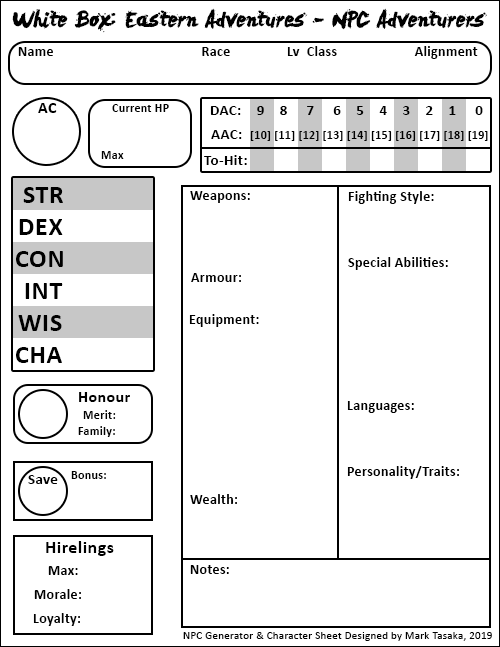
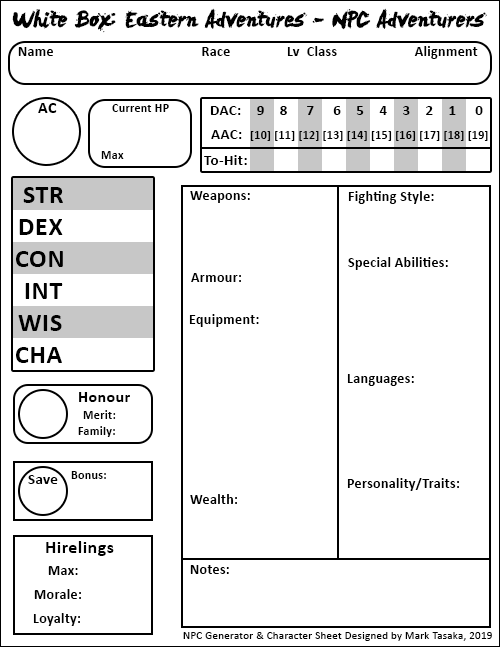
update 1.01

Changed region(s): [[0.69, 0.711, 0.93, 0.7728], [0.69, 0.5564, 0.84, 0.6491]]

diff --git a/npc/css/npc.css b/npc/css/npc.css
@@ -170,9 +170,9 @@ body{
 
 #personality0, #personality1, #personality2, #personality3{
     position: absolute;
-    top: 483px;
+    top: 495px;
     left: 348px;
-    font-size: 0.8em;;
+    font-size: 0.75em;;
     width: 135px;
 }
 
@@ -218,7 +218,7 @@ body{
     top: 273px;
     left: 348px;
     width: 135px;
-    font-size: 0.8em;
+    font-size: 0.75em;
 }
 
 
@@ -309,10 +309,9 @@ body{
 
 
 
-#demo{
+#language0, #language1, #language2, #language3{
     position: absolute;
-    top: 330px;
-    left: 210px;
-    font-size: 0.75em;
-    width: 110px;
+    top: 373px;
+    left: 348px;
+    font-size:0.75em;
 }

diff --git a/npc/php/languages.php b/npc/php/languages.php
@@ -1,16 +1,5 @@
 <?php
 
-$languagesHuman = array("Bakemono", "Celestial Dialect", "Dark Speech", "Draconic",
-"Kappa", "Feline", "Forest Dialect", "Koropokuru", "Nezumi", "Oceanic",
-"The Old Tongue", "Ogre", "Oni", "Sea Dialect", "Tengu", "The Undying Tongue");
-
-$languagesKoropokuru = array("Bakemono", "Celestial Dialect", "Dark Speech", "Draconic",
-"Kappa", "Feline", "Forest Dialect", "Nezumi", "Oceanic",
-"The Old Tongue", "Ogre", "Oni", "Sea Dialect", "Tengu", "The Undying Tongue");
-
-$languagesTengu = array("Bakemono", "Celestial Dialect", "Dark Speech", "Draconic",
-"Kappa", "Feline", "Forest Dialect", "Koropokuru", "Nezumi", "Oceanic",
-"The Old Tongue", "Ogre", "Oni", "Sea Dialect", "The Undying Tongue");
 
 function bonusLanguages ($intelligence)
 {
@@ -45,6 +34,7 @@ function bonusLanguages ($intelligence)
 
 }
 
+//Languages for Human NPCs
 function BonusLanguagesHuman ($bonus)
 {
     
@@ -70,17 +60,120 @@ function BonusLanguagesHuman ($bonus)
     
     return $languages;
 
-    //return $languagesHuman;
+}
+
+//Languages for Koropokuru NPCs
+function BonusLanguagesKoropokuru ($bonus)
+{
+    
+    $languagesKoropokuru = array("Bakemono", "Celestial Dialect", "Dark Speech", "Draconic",
+    "Kappa", "Feline", "Forest Dialect", "Nezumi", "Oceanic",
+    "The Old Tongue", "Ogre", "Oni", "Sea Dialect", "Tengu", "The Undying Tongue");
+    
+    shuffle($languagesKoropokuru);
+    
+    $languages = array();
+
+    array_push($languages, 'Common');
+    array_push($languages, 'Koropokuru');
+
+
+    if($bonus > 0)
+    {
+        for($count = 0; $count < $bonus; ++$count)
+        {
+            array_push($languages, $languagesKoropokuru[$count]);
+        }
+    }
+    
+    return $languages;
 
 }
 
 
-function getLanguages ($bonus)
+//Languages for Kitsune NPCs
+function BonusLanguagesKitsune ($bonus)
+{
+    
+    $languagesHuman = array("Bakemono", "Celestial Dialect", "Dark Speech", "Draconic",
+    "Kappa", "Feline", "Forest Dialect", "Koropokuru", "Nezumi", "Oceanic",
+    "The Old Tongue", "Ogre", "Oni", "Sea Dialect", "Tengu", "The Undying Tongue");
+    
+    shuffle($languagesHuman);
+    
+    $languages = array();
+
+    array_push($languages, 'Common');
+    array_push($languages, 'Kitsune');
+
+
+    if($bonus > 0)
+    {
+        for($count = 0; $count < $bonus; ++$count)
+        {
+            array_push($languages, $languagesHuman[$count]);
+        }
+    }
+    
+    return $languages;
+
+}
+
+
+
+//Languages for Tengu NPCs
+function BonusLanguagesTengu ($bonus)
+{
+    
+    $languagesTengu = array("Bakemono", "Celestial Dialect", "Dark Speech", "Draconic",
+    "Kappa", "Feline", "Forest Dialect", "Koropokuru", "Nezumi", "Oceanic",
+    "The Old Tongue", "Ogre", "Oni", "Sea Dialect", "The Undying Tongue");
+
+    shuffle($languagesTengu);
+    
+    $languages = array();
+
+    array_push($languages, 'Common');
+    array_push($languages, 'Tengu');;
+    array_push($languages, 'Language of Birds');
+
+
+    if($bonus > 0)
+    {
+        for($count = 0; $count < $bonus; ++$count)
+        {
+            array_push($languages, $languagesTengu[$count]);
+        }
+    }
+    
+    return $languages;
+
+}
+
+function getLanguages ($bonus, $race)
 {
 
     $languages = array();
+
+    if($race === 'Human')
+    {
+        $languages = BonusLanguagesHuman ($bonus);
+    }
     
-    $languages = BonusLanguagesHuman ($bonus);
+    if($race === 'Koropokuru')
+    {
+        $languages = BonusLanguagesKoropokuru ($bonus);
+    }
+    
+    if($race === 'Kitsune')
+    {
+        $languages = BonusLanguagesKitsune ($bonus);
+    }
+    
+    if($race === 'Tengu')
+    {
+        $languages = BonusLanguagesTengu ($bonus);
+    }
 
     return $languages;
 

diff --git a/npc/npc_adventurers.php b/npc/npc_adventurers.php
@@ -260,10 +260,14 @@
         $npcToHit3 = getToHit ($class3, $npcLevel3);
 
         $npcBonusLanguage0 = bonusLanguages ($intelligence0);
+        $npcBonusLanguage1 = bonusLanguages ($intelligence1);
+        $npcBonusLanguage2 = bonusLanguages ($intelligence2);
+        $npcBonusLanguage3 = bonusLanguages ($intelligence3);
 
-        $bonusLan = 3;
-
-        $npcLanguages0 = BonusLanguagesHuman ($bonusLan);
+        $npcLanguages0 = getLanguages ($npcBonusLanguage0, $race0);
+        $npcLanguages1 = getLanguages ($npcBonusLanguage1, $race1);
+        $npcLanguages2 = getLanguages ($npcBonusLanguage2, $race2);
+        $npcLanguages3 = getLanguages ($npcBonusLanguage3, $race3);
         
 
 
@@ -484,7 +488,7 @@
             <span id="specialAbility0">
                 <?php
                 
-                echo  $npcRaceBonusMessage0 . '<br/><br/>' . $npcStrengthMessage0 . $npcDexerityMessage0;
+                echo  $npcRaceBonusMessage0 . '<br/>' . $npcStrengthMessage0 . $npcDexerityMessage0;
                 
                 ?>
             </span>
@@ -566,11 +570,11 @@
             </span>
 
             
-            <span id="demo">
+            <span id="language0">
                 <?php
                 foreach($npcLanguages0 as $lan)
                 {
-                    echo $lan . ', ';
+                    echo '<br/>' . $lan;
                 }
                 ?>
             </span>
@@ -882,6 +886,16 @@
                 ?>
             </span>
 
+            
+            <span id="language1">
+                <?php
+                foreach($npcLanguages1 as $lan)
+                {
+                    echo '<br/>' . $lan;
+                }
+                ?>
+                </span>
+
 
 
 
@@ -1171,7 +1185,15 @@
                 echo  ($npcToHit2 + 9);
                 ?>
             </span>
-
+            
+            <span id="language2">
+                <?php
+                foreach($npcLanguages2 as $lan)
+                {
+                    echo '<br/>' . $lan;
+                }
+                ?>
+                </span>
 
       
         </aside>
@@ -1453,12 +1475,20 @@
                 echo  ($npcToHit3 + 8);
                 ?>
             </span>
-            <span id="toHit92">
+            <span id="toHit93">
                 <?php
                 echo  ($npcToHit3 + 9);
                 ?>
             </span>
-
+            
+            <span id="language3">
+                <?php
+                foreach($npcLanguages3 as $lan)
+                {
+                    echo '<br/>' . $lan;
+                }
+                ?>
+                </span>
        
 
 
